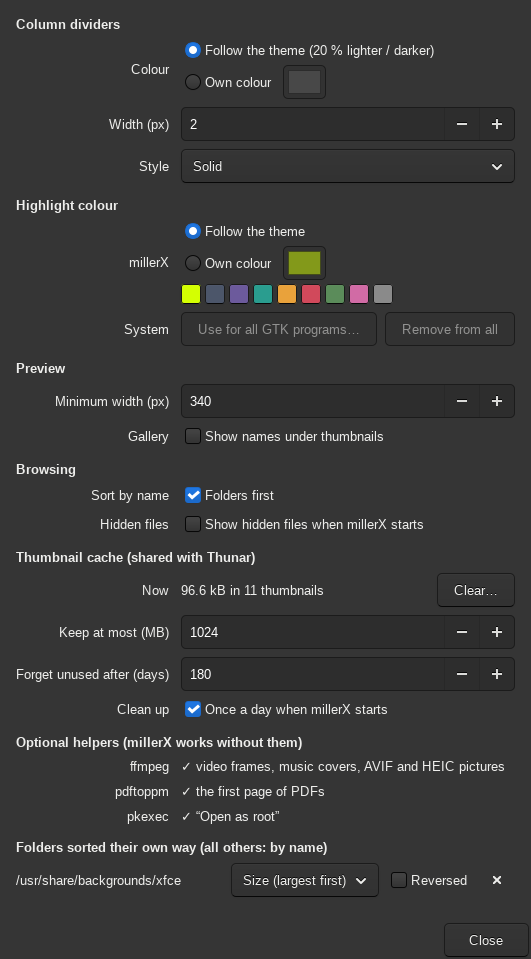
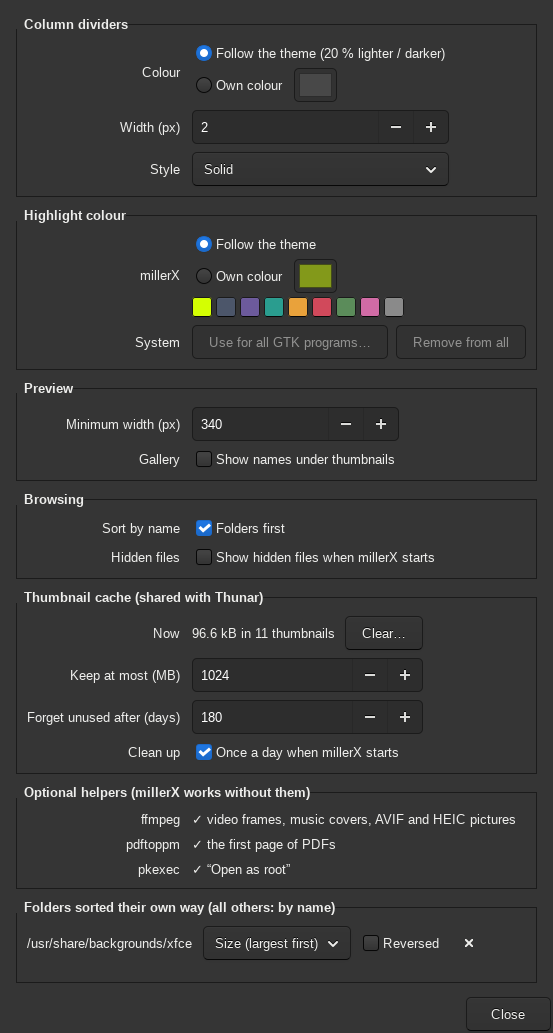
Settings: every section in its own framed box
Each section is a GtkFrame with its own grid; a size group keeps the label
column equally wide across them, so the boxes line up. The whole column
scrolls when the screen is too small. The helper texts no longer wrap
(wrapped labels made GTK size the dialog far too tall). New screenshot.

diff --git a/src/dialogs.c b/src/dialogs.c
@@ -420,26 +420,41 @@ static void settings_close(GtkDialog *d, int r, Set *s)
     gtk_widget_destroy(GTK_WIDGET(d));
 }
 
+/* While the settings are built: the box the section frames go into, and a size group that keeps
+ * the labels of all sections equally wide, so the frames line up. */
+static GtkWidget *SECTIONS;
+static GtkSizeGroup *LABELS;
+
 static void srow(GtkWidget *grid, int *r, const char *label, GtkWidget *w)
 {
     GtkWidget *l = gtk_label_new(label);
     gtk_label_set_xalign(GTK_LABEL(l), 1);
+    if (LABELS)
+        gtk_size_group_add_widget(LABELS, l);
     gtk_grid_attach(GTK_GRID(grid), l, 0, *r, 1, 1);
     gtk_grid_attach(GTK_GRID(grid), w, 1, *r, 1, 1);
     (*r)++;
 }
 
-static void section(GtkWidget *grid, int *r, const char *text)
+/* a new section: a frame with the title on it, holding its own grid (which *grid becomes) */
+static void section(GtkWidget **grid, int *r, const char *text)
 {
     GtkWidget *l = gtk_label_new(NULL);
-    char *m = g_strdup_printf("<b>%s</b>", text);
+    char *m = g_markup_printf_escaped("<b>%s</b>", text);
     gtk_label_set_markup(GTK_LABEL(l), m);
     g_free(m);
-    gtk_label_set_xalign(GTK_LABEL(l), 0);
-    if (*r)
-        gtk_widget_set_margin_top(l, 6);
-    gtk_grid_attach(GTK_GRID(grid), l, 0, *r, 2, 1);
-    (*r)++;
+    GtkWidget *frame = gtk_frame_new(NULL);
+    gtk_frame_set_label_widget(GTK_FRAME(frame), l);
+    gtk_frame_set_label_align(GTK_FRAME(frame), 0, 0.5);
+    gtk_widget_set_margin_start(l, 8);          /* every title at the same spot, long or short */
+    GtkWidget *g = gtk_grid_new();
+    gtk_grid_set_column_spacing(GTK_GRID(g), 12);
+    gtk_grid_set_row_spacing(GTK_GRID(g), 8);
+    g_object_set(g, "margin", 10, NULL);
+    gtk_container_add(GTK_CONTAINER(frame), g);
+    gtk_box_pack_start(GTK_BOX(SECTIONS), frame, FALSE, FALSE, 0);
+    *grid = g;
+    *r = 0;
 }
 
 /* Optional programs millerX uses if they are there: what each one gives, and what to install
@@ -459,13 +474,12 @@ static void helper_rows(GtkWidget *grid, int *r)
         char *found = g_find_program_in_path(HELPERS[i].prog);
         char *m = found
             ? g_markup_printf_escaped("✓ %s", HELPERS[i].gives)
-            : g_markup_printf_escaped("✗ not installed: %s.\n<small>Install %s for %s.</small>",
+            : g_markup_printf_escaped("✗ not installed: %s.\n<small>Install %s\nfor %s.</small>",
                                       HELPERS[i].without, HELPERS[i].package, HELPERS[i].gives);
         GtkWidget *l = gtk_label_new(NULL);
         gtk_label_set_markup(GTK_LABEL(l), m);
         gtk_label_set_xalign(GTK_LABEL(l), 0);
-        gtk_label_set_line_wrap(GTK_LABEL(l), TRUE);
-        gtk_label_set_max_width_chars(GTK_LABEL(l), 52);
+        /* no wrapping: wrapped labels make GTK guess the dialog far too tall */
         if (!found)
             gtk_widget_set_opacity(l, 0.85);
         srow(grid, r, HELPERS[i].prog, l);
@@ -647,17 +661,29 @@ void dialog_settings(Win *w)
 {
     GtkWidget *d = gtk_dialog_new_with_buttons("millerX settings", GTK_WINDOW(w->window), 0, "Close",
                                                GTK_RESPONSE_CLOSE, NULL);
-    GtkWidget *grid = gtk_grid_new();
-    gtk_grid_set_column_spacing(GTK_GRID(grid), 12);
-    gtk_grid_set_row_spacing(GTK_GRID(grid), 8);
-    g_object_set(grid, "margin", 14, NULL);
-    gtk_box_pack_start(GTK_BOX(gtk_dialog_get_content_area(GTK_DIALOG(d))), grid, TRUE, TRUE, 0);
+    /* one framed box per section, all in a column that scrolls if the screen is too small */
+    SECTIONS = gtk_box_new(GTK_ORIENTATION_VERTICAL, 10);
+    g_object_set(SECTIONS, "margin", 14, NULL);
+    LABELS = gtk_size_group_new(GTK_SIZE_GROUP_HORIZONTAL);
+    GtkWidget *scroll = gtk_scrolled_window_new(NULL, NULL);
+    gtk_scrolled_window_set_policy(GTK_SCROLLED_WINDOW(scroll), GTK_POLICY_NEVER, GTK_POLICY_AUTOMATIC);
+    gtk_scrolled_window_set_propagate_natural_height(GTK_SCROLLED_WINDOW(scroll), TRUE);
+    gtk_scrolled_window_set_propagate_natural_width(GTK_SCROLLED_WINDOW(scroll), TRUE);
+    GdkRectangle area = { 0, 0, 0, 900 };
+    GdkMonitor *mon = gdk_display_get_monitor_at_window(gtk_widget_get_display(w->window),
+                                                        gtk_widget_get_window(w->window));
+    if (mon)
+        gdk_monitor_get_workarea(mon, &area);
+    gtk_scrolled_window_set_max_content_height(GTK_SCROLLED_WINDOW(scroll), MAX(300, area.height - 120));
+    gtk_container_add(GTK_CONTAINER(scroll), SECTIONS);
+    gtk_box_pack_start(GTK_BOX(gtk_dialog_get_content_area(GTK_DIALOG(d))), scroll, TRUE, TRUE, 0);
+    GtkWidget *grid = NULL;
     Set *s = g_new0(Set, 1);
     s->w = w;
     g_object_set_data_full(G_OBJECT(d), "set", s, g_free);
     int r = 0;
 
-    section(grid, &r, "Column dividers");
+    section(&grid, &r, "Column dividers");
     s->auto_rb = gtk_radio_button_new_with_label(NULL, "Follow the theme (20 % lighter / darker)");
     s->own_rb = gtk_radio_button_new_with_label_from_widget(GTK_RADIO_BUTTON(s->auto_rb), "Own colour");
     s->colour = gtk_color_button_new();
@@ -685,7 +711,7 @@ void dialog_settings(Win *w)
     gtk_combo_box_text_append(GTK_COMBO_BOX_TEXT(s->style), "fade", "Fading at the ends");
     gtk_combo_box_set_active_id(GTK_COMBO_BOX(s->style), LOOK.fade ? "fade" : "solid");
     srow(grid, &r, "Style", s->style);
-    section(grid, &r, "Highlight colour");
+    section(&grid, &r, "Highlight colour");
     s->hl_auto = gtk_radio_button_new_with_label(NULL, "Follow the theme");
     s->hl_own = gtk_radio_button_new_with_label_from_widget(GTK_RADIO_BUTTON(s->hl_auto), "Own colour");
     s->hl_colour = gtk_color_button_new();
@@ -712,21 +738,21 @@ void dialog_settings(Win *w)
     gtk_box_pack_start(GTK_BOX(sysb), s->hl_sys, FALSE, FALSE, 0);
     gtk_box_pack_start(GTK_BOX(sysb), s->hl_unsys, FALSE, FALSE, 0);
     srow(grid, &r, "System", sysb);
-    section(grid, &r, "Preview");
+    section(&grid, &r, "Preview");
     s->pw = gtk_spin_button_new_with_range(200, 900, 10);
     gtk_spin_button_set_value(GTK_SPIN_BUTTON(s->pw), LOOK.preview_width);
     srow(grid, &r, "Minimum width (px)", s->pw);   /* it takes the rest of the window */
     s->names = gtk_check_button_new_with_label("Show names under thumbnails");
     gtk_toggle_button_set_active(GTK_TOGGLE_BUTTON(s->names), LOOK.gallery_names);
     srow(grid, &r, "Gallery", s->names);
-    section(grid, &r, "Browsing");
+    section(&grid, &r, "Browsing");
     s->ff = gtk_check_button_new_with_label("Folders first");
     gtk_toggle_button_set_active(GTK_TOGGLE_BUTTON(s->ff), LOOK.folders_first);
     srow(grid, &r, "Sort by name", s->ff);
     s->sh = gtk_check_button_new_with_label("Show hidden files when millerX starts");
     gtk_toggle_button_set_active(GTK_TOGGLE_BUTTON(s->sh), LOOK.show_hidden);
     srow(grid, &r, "Hidden files", s->sh);
-    section(grid, &r, "Thumbnail cache (shared with Thunar)");
+    section(&grid, &r, "Thumbnail cache (shared with Thunar)");
     s->cache_size = gtk_label_new("measuring…");
     gtk_label_set_xalign(GTK_LABEL(s->cache_size), 0);
     s->cache_clear = gtk_button_new_with_label("Clear…");
@@ -744,9 +770,9 @@ void dialog_settings(Win *w)
     gtk_toggle_button_set_active(GTK_TOGGLE_BUTTON(s->cache_auto), LOOK.cache_auto);
     srow(grid, &r, "Clean up", s->cache_auto);
     thumbcache_measure(cache_measured, g_object_ref(s->cache_size));
-    section(grid, &r, "Optional helpers (millerX works without them)");
+    section(&grid, &r, "Optional helpers (millerX works without them)");
     helper_rows(grid, &r);
-    section(grid, &r, "Folders sorted their own way (all others: by name)");
+    section(&grid, &r, "Folders sorted their own way (all others: by name)");
     s->sort_list = gtk_box_new(GTK_ORIENTATION_VERTICAL, 4);
     GtkWidget *sl_scroll = gtk_scrolled_window_new(NULL, NULL);
     gtk_scrolled_window_set_policy(GTK_SCROLLED_WINDOW(sl_scroll), GTK_POLICY_NEVER, GTK_POLICY_AUTOMATIC);
@@ -773,6 +799,8 @@ void dialog_settings(Win *w)
     g_signal_connect(s->cache_auto, "toggled", G_CALLBACK(settings_changed), s);
     g_signal_connect(s->cache_clear, "clicked", G_CALLBACK(cache_clear_clicked), s);
     g_signal_connect(d, "response", G_CALLBACK(settings_close), s);
+    SECTIONS = NULL;
+    g_clear_object(&LABELS);           /* the labels keep the group alive */
     gtk_widget_show_all(d);
 }
 

diff --git a/CHANGELOG.md b/CHANGELOG.md
@@ -1,5 +1,10 @@
 # Changelog
 
+## Unreleased
+
+- **Settings in boxes:** every section has its own frame with its title on it, the labels line up
+  across all of them, and the window scrolls if the screen is too small for it.
+
 ## 0.7 (2026-11-21)
 
 The gallery (a folder's contents under its details) grew up:
